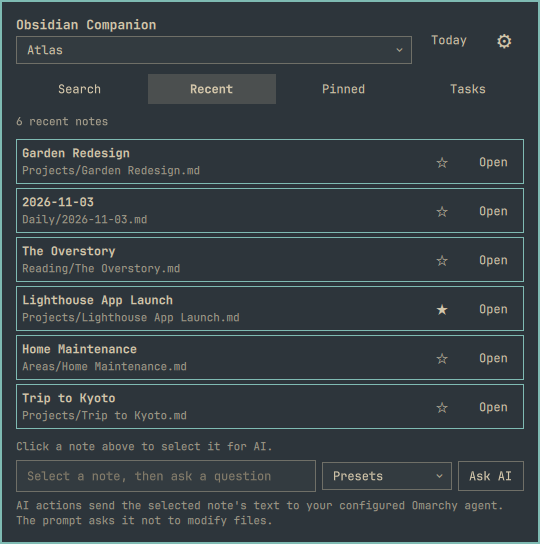
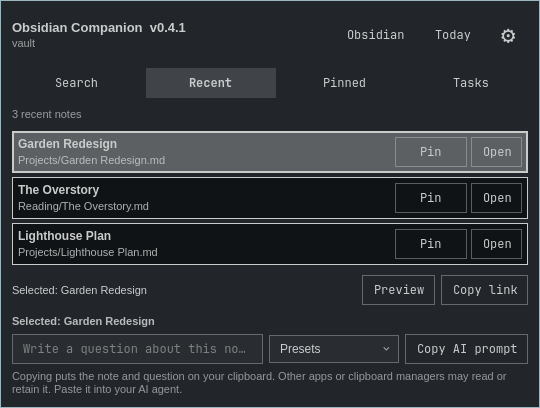
Fix task safety and reminder delivery
Release 0.4.1: complete tasks in Obsidian, retry failed reminders, and refresh the marketplace preview.

diff --git a/Panel.qml b/Panel.qml
@@ -432,6 +432,13 @@ Panel {
       else
         errorMessage = "Could not open Obsidian. Check that its URI handler is installed."
     } else if (action === "open" || action === "daily" || action === "create") {
+      if (action === "open" && payload.taskCompletion) {
+        if (response.uri && Qt.openUrlExternally(response.uri))
+          notice = "Complete the task in Obsidian."
+        else
+          errorMessage = "Could not open the task in Obsidian. Check that its URI handler is installed."
+        return
+      }
       if (response.uri) Qt.openUrlExternally(response.uri)
       notice = response.message || "Opened in Obsidian."
       refreshCurrentView()
@@ -452,10 +459,6 @@ Panel {
       recent = updatePin(recent)
       pinned = updatePin(pinned)
       refreshCurrentView()
-    } else if (action === "complete_task") {
-      notice = response.message || "Task completed."
-      refreshCurrentView()
-      scheduleActivity()
     } else if (action === "ai_prompt") {
       aiQuestion = ""
       notice = response.message
@@ -463,14 +466,6 @@ Panel {
       reminderMode = response.reminderMode || "off"
       reminderTime = response.reminderTime || "09:00"
       notice = "Reminder preference saved."
-    } else if (action === "reminder_check") {
-      if (response.notifications && response.notifications.length > 0) {
-        notificationProcess.command = [
-          "omarchy", "notification", "send", "--app-name", "Obsidian Companion",
-          "Obsidian Companion", response.notifications[0]
-        ]
-        notificationProcess.running = true
-      }
     }
   }
 
@@ -527,7 +522,8 @@ Panel {
   }
 
   function openNote(note) {
-    request("open", { vault: selectedVault, path: note.path })
+    request("open", { vault: selectedVault, path: note.path,
+                      taskCompletion: activeTab === "tasks" })
   }
 
   function togglePin(note) {
@@ -704,16 +700,6 @@ Panel {
     running: root.initialized && !!root.selectedVault
     repeat: true
     onTriggered: root.scheduleActivity()
-  }
-
-  Process {
-    id: notificationProcess
-    stdout: StdioCollector {}
-    stderr: StdioCollector {}
-    onExited: function(exitCode) {
-      if (exitCode !== 0)
-        console.warn("Obsidian Companion: could not send task reminder notification.")
-    }
   }
 
   Timer {
@@ -1230,18 +1216,6 @@ Panel {
                     RowLayout {
                       spacing: Style.space(4)
                       Button {
-                        visible: root.activeTab === "tasks"
-                        text: "Done"
-                        tooltipText: "Mark this task complete in its note"
-                        enabled: !root.busy
-                        onClicked: root.request("complete_task", {
-                          vault: root.selectedVault,
-                          path: row.path,
-                          line: row.line,
-                          text: row.taskText
-                        })
-                      }
-                      Button {
                         visible: root.activeTab !== "tasks"
                         Layout.preferredWidth: row.isLocationView ? Style.space(72) : implicitWidth
                         text: row.isLocationView
@@ -1253,9 +1227,9 @@ Panel {
                         onClicked: root.togglePin(root.noteFromDelegate(row))
                       }
                       Button {
-                        text: "Open"
+                        text: root.activeTab === "tasks" ? "Open task" : "Open"
                         tooltipText: root.activeTab === "tasks"
-                          ? "Open the note containing this task in Obsidian"
+                          ? "Open the note and complete the task in Obsidian"
                           : "Open in Obsidian (or double-click the row)"
                         bordered: row.isLocationView
                         enabled: !root.busy

diff --git a/tests/test_companion.py b/tests/test_companion.py
@@ -385,11 +385,15 @@ class CompanionTests(unittest.TestCase):
         with self.assertRaises(companion.CompanionError):
             companion._relative_path(self.root, "../outside.md")
 
-    def test_task_completion_checks_the_original_line_before_writing(self):
-        (self.root / "tasks.md").write_text("- [ ] Ship this\n", encoding="utf-8")
+    def test_tasks_are_opened_for_completion_without_writing_the_note(self):
+        note = self.root / "tasks.md"
+        note.write_text("- [ ] Ship this\n", encoding="utf-8")
         task = self.run_action("tasks")["items"][0]
-        self.run_action("complete_task", **task)
-        self.assertEqual((self.root / "tasks.md").read_text(encoding="utf-8"), "- [x] Ship this\n")
+        response = self.run_action("open", path=task["path"])
+        self.assertTrue(response["uri"].startswith("obsidian://open?"))
+        with self.assertRaisesRegex(companion.CompanionError, "Unknown action"):
+            self.run_action("complete_task", **task)
+        self.assertEqual(note.read_text(encoding="utf-8"), "- [ ] Ship this\n")
 
     def test_tasks_filter_and_sort_by_due_date_with_undated_last(self):
         (self.root / "a.md").write_text(
@@ -513,12 +517,15 @@ class CompanionTests(unittest.TestCase):
                     hour=10, minute=0, tzinfo=tz
                 )
 
-        with patch.object(companion.dt, "datetime", FixedDateTime):
-            first = self.run_action("reminder_check")["notifications"]
-            second = self.run_action("reminder_check")["notifications"]
-        self.assertEqual(len(first), 1)
-        self.assertIn("1 open task", first[0])
-        self.assertEqual(second, [])
+        with patch.object(companion.dt, "datetime", FixedDateTime), \
+                patch.object(companion.subprocess, "run") as notify:
+            first = self.run_action("reminder_check")["delivered"]
+            second = self.run_action("reminder_check")["delivered"]
+        self.assertTrue(first)
+        self.assertFalse(second)
+        self.assertEqual(notify.call_count, 1)
+        self.assertIn("1 open task", notify.call_args.args[0][-1])
+        self.assertTrue(notify.call_args.kwargs["check"])
 
     def test_due_date_reminder_uses_obsidian_tasks_marker_once(self):
         due = dt.date.today().isoformat()
@@ -535,12 +542,66 @@ class CompanionTests(unittest.TestCase):
                     hour=10, minute=0, tzinfo=tz
                 )
 
+        with patch.object(companion.dt, "datetime", FixedDateTime), \
+                patch.object(companion.subprocess, "run") as notify:
+            first = self.run_action("reminder_check")["delivered"]
+            second = self.run_action("reminder_check")["delivered"]
+        self.assertTrue(first)
+        self.assertFalse(second)
+        self.assertEqual(notify.call_count, 1)
+        self.assertIn("1 task due or overdue", notify.call_args.args[0][-1])
+
+    def test_reminder_delivery_failure_retries_without_marking_sent(self):
+        due = dt.date.today().isoformat()
+        (self.root / "tasks.md").write_text(f"- [ ] Retry reminder 📅 {due}\n", encoding="utf-8")
+        real_datetime = dt.datetime
+
+        class FixedDateTime(real_datetime):
+            @classmethod
+            def now(cls, tz=None):
+                return cls.combine(dt.date.today(), real_datetime.min.time()).replace(
+                    hour=10, minute=0, tzinfo=tz
+                )
+
+        failures = [
+            subprocess.CalledProcessError(1, ["omarchy"]),
+            subprocess.TimeoutExpired("omarchy", 10),
+            FileNotFoundError("omarchy"),
+        ]
         with patch.object(companion.dt, "datetime", FixedDateTime):
-            first = self.run_action("reminder_check")["notifications"]
-            second = self.run_action("reminder_check")["notifications"]
-        self.assertEqual(len(first), 1)
-        self.assertIn("1 task due or overdue", first[0])
-        self.assertEqual(second, [])
+            for mode in ("daily_summary", "due_dates"):
+                self.run_action("set_reminders", mode=mode, time="09:00")
+                for failure in failures:
+                    with self.subTest(mode=mode, failure=type(failure).__name__):
+                        with patch.object(companion.subprocess, "run", side_effect=failure):
+                            with self.assertRaisesRegex(companion.CompanionError, "will be retried"):
+                                self.run_action("reminder_check")
+                        self.assertEqual(companion._reminder_settings(companion._state(), self.root)["sent"], {})
+                with patch.object(companion.subprocess, "run") as notify:
+                    self.assertTrue(self.run_action("reminder_check")["delivered"])
+                    self.assertFalse(self.run_action("reminder_check")["delivered"])
+                    self.assertEqual(notify.call_count, 1)
+                self.run_action("set_reminders", mode=mode, time="09:00")
+                state = companion._state()
+                companion._reminder_settings(state, self.root)["sent"] = {}
+                companion._write_state(state)
+
+    def test_reminder_does_not_save_history_before_delivery(self):
+        (self.root / "tasks.md").write_text("- [ ] Prepare review\n", encoding="utf-8")
+        self.run_action("set_reminders", mode="daily_summary", time="00:00")
+
+        def verify_during_delivery(*args, **kwargs):
+            settings = companion._reminder_settings(companion._state(), self.root)
+            self.assertEqual(settings["sent"], {})
+
+        with patch.object(companion.subprocess, "run", side_effect=verify_during_delivery) as notify:
+            with patch.object(companion, "_write_state", side_effect=OSError("disk error")):
+                with self.assertRaisesRegex(OSError, "disk error"):
+                    self.run_action("reminder_check")
+            self.assertEqual(companion._reminder_settings(companion._state(), self.root)["sent"], {})
+            self.assertTrue(self.run_action("reminder_check")["delivered"])
+            self.assertFalse(self.run_action("reminder_check")["delivered"])
+            self.assertEqual(notify.call_count, 2)
 
     def test_ai_handoff_is_explicit_and_does_not_change_the_note(self):
         path = self.root / "note.md"

diff --git a/companion.py b/companion.py
@@ -900,11 +900,11 @@ def _apply_reminders(state: dict[str, Any], root: Path, mode: Any, time: Any) ->
     return mode, time
 
 
-def _check_reminders(root: Path, state: dict[str, Any]) -> list[str]:
+def _check_reminders(root: Path, state: dict[str, Any]) -> bool:
     settings = _reminder_settings(state, root)
     now = dt.datetime.now()
     if settings["mode"] == "off" or now.strftime("%H:%M") < settings["time"]:
-        return []
+        return False
 
     today = now.date()
     sent = settings["sent"]
@@ -912,29 +912,38 @@ def _check_reminders(root: Path, state: dict[str, Any]) -> list[str]:
     if settings["mode"] == "daily_summary":
         key = f"daily:{today.isoformat()}"
         if sent.get(key) or not tasks:
-            return []
+            return False
+        keys = [key]
+        message = f"{len(tasks)} open task{'s' if len(tasks) != 1 else ''} in your vault."
+    else:
+        keys = []
+        seen = set()
+        for task in tasks:
+            try:
+                due_date = dt.date.fromisoformat(task["due"])
+            except ValueError:
+                continue
+            if due_date > today:
+                continue
+            key = f"due:{task['path']}:{task['text']}:{task['due']}"
+            if not sent.get(key) and key not in seen:
+                keys.append(key)
+                seen.add(key)
+        if not keys:
+            return False
+        message = f"{len(keys)} task{'s' if len(keys) != 1 else ''} due or overdue."
+    try:
+        subprocess.run(
+            ["omarchy", "notification", "send", "--app-name", "Obsidian Companion",
+             "Obsidian Companion", message],
+            stdout=subprocess.DEVNULL, stderr=subprocess.PIPE, check=True, timeout=10,
+        )
+    except (OSError, subprocess.SubprocessError) as error:
+        raise CompanionError("Could not deliver the task reminder; it will be retried.") from error
+    for key in keys:
         sent[key] = True
-        _write_state(state)
-        return [f"{len(tasks)} open task{'s' if len(tasks) != 1 else ''} in your vault."]
-
-    due = []
-    for task in tasks:
-        if not task["due"]:
-            continue
-        try:
-            due_date = dt.date.fromisoformat(task["due"])
-        except ValueError:
-            continue
-        if due_date > today:
-            continue
-        key = f"due:{task['path']}:{task['text']}:{task['due']}"
-        if not sent.get(key):
-            sent[key] = True
-            due.append(task)
-    if not due:
-        return []
     _write_state(state)
-    return [f"{len(due)} task{'s' if len(due) != 1 else ''} due or overdue."]
+    return True
 
 
 def _handle(request: dict[str, Any]) -> dict[str, Any]:
@@ -1078,7 +1087,7 @@ def _handle(request: dict[str, Any]) -> dict[str, Any]:
             "reminderTime": time,
         }
     if action == "reminder_check":
-        return {"ok": True, "notifications": _check_reminders(root, state)}
+        return {"ok": True, "delivered": _check_reminders(root, state)}
     if action == "open_vault":
         vault = next((item for item in _vaults(state) if item["path"] == str(root)), None)
         if not vault or not vault["id"]:
@@ -1162,19 +1171,6 @@ def _handle(request: dict[str, Any]) -> dict[str, Any]:
             "pinned": is_pinned,
             "message": message,
         }
-    if action == "complete_task":
-        relative = _relative_path(root, str(request.get("path", "")))
-        path = root / relative
-        lines = _read_note(path).splitlines(keepends=True)
-        line_index = request.get("line")
-        expected = str(request.get("text", ""))
-        if not isinstance(line_index, int) or line_index < 0 or line_index >= len(lines):
-            raise CompanionError("The task changed before it could be updated. Refresh and retry.")
-        if not re.match(r"^\s*[-*+]\s+\[ \]\s+" + re.escape(expected) + r"\s*$", lines[line_index].rstrip("\r\n")):
-            raise CompanionError("The task changed before it could be updated. Refresh and retry.")
-        lines[line_index] = re.sub(r"\[ \]", "[x]", lines[line_index], count=1)
-        path.write_text("".join(lines), encoding="utf-8")
-        return {"ok": True, "message": "Task marked done."}
     if action == "ai_prompt":
         if not _ui_settings(state)["aiEnabled"]:
             raise CompanionError("Ask AI is turned off in Settings.")

diff --git a/README.md b/README.md
@@ -24,8 +24,8 @@ Obsidian or Omarchy.
 - Create a note in a chosen folder, optionally from a vault template.
 - Review unchecked Markdown tasks, filter them by text or note path (using the
   same removable term chips as Search) and by due-date category, sort by due
-  date (ascending or descending; undated tasks last), and explicitly mark them
-  done.
+  date (ascending or descending; undated tasks last), and open their notes in
+  Obsidian to mark them done.
 - Choose optional daily task summaries or alerts for due/overdue Obsidian
   Tasks items, with a configurable local time.
 - Show an activity count on the bar icon for due tasks, changed notes, and a
@@ -127,7 +127,8 @@ In **Tasks**, choose **All due dates**, **Overdue**, **Due today**, **Upcoming**
 or **Undated**. These filters use the local date and can be combined with text
 terms and sorting. Upcoming includes all future dates; undated includes tasks
 with missing or invalid `📅 YYYY-MM-DD` dates. The all-dates view remains the
-default, and changing vaults resets the date filter.
+default, and changing vaults resets the date filter. Use **Open task** to open
+its note and mark it complete in Obsidian; Companion does not edit task status.
 
 **Recent** combines Obsidian's own history (`.obsidian/workspace.json`
 `lastOpenFiles`) with notes opened from Companion. **Pinned** notes are saved
@@ -145,7 +146,9 @@ selected note to its provider.
 Reminder settings are per vault and off by default. Due-date alerts recognize
 the Obsidian Tasks `📅 YYYY-MM-DD` marker; they notify once at the chosen time
 on the due date or later if the shell was not running then. Daily summaries
-count open tasks without including task text in the notification.
+count open tasks without including task text in the notification. Failed
+deliveries are retried; a crash after delivery but before saving reminder
+history can cause a duplicate.
 
 ## Settings
 

diff --git a/CHANGELOG.md b/CHANGELOG.md
@@ -2,6 +2,13 @@
 
 ## Unreleased
 
+## 0.4.1 - 2026-11-24
+
+- Open task notes for completion in Obsidian instead of rewriting notes, avoiding
+  lost concurrent edits.
+- Record reminders only after successful notification delivery and retry failures.
+- Refresh the marketplace preview to reflect the current clipboard-based AI flow.
+
 ## 0.4.0 - 2026-11-24
 
 - Show task text prominently in task rows, above the note path and due date.
